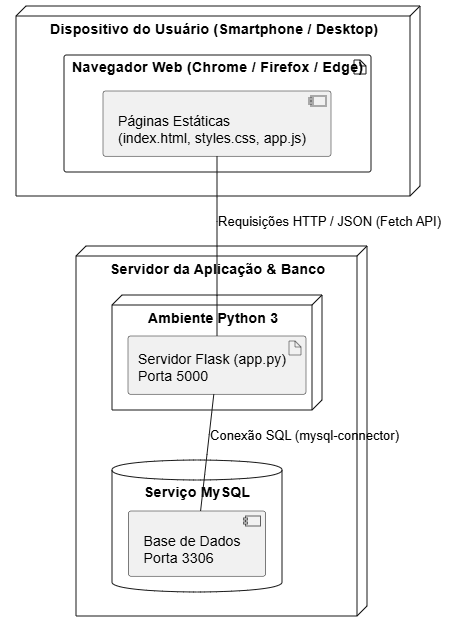
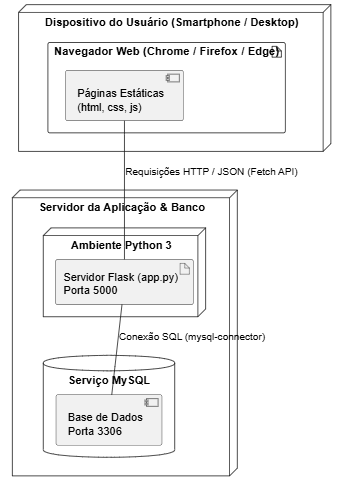
Organização dos Diretórios do Projeto Real (html, css, js, py, sql)

Changed region(s): [[0.0291, 0.0, 0.9884, 0.9816]]

diff --git a/Documentação/especificacao_de_requisitos_e_artefatos.md b/Documentação/especificacao_de_requisitos_e_artefatos.md
@@ -1,5 +1,5 @@
 # WaitLess Logistics - Especificação de Requisitos e Artefatos
-**MVP — git**  
+**MVP —  Sistema de Monitoramento de Tempo Parado em Roteiros**  
 **Engenharia de Software II**
 
 Por: Alex Marques
